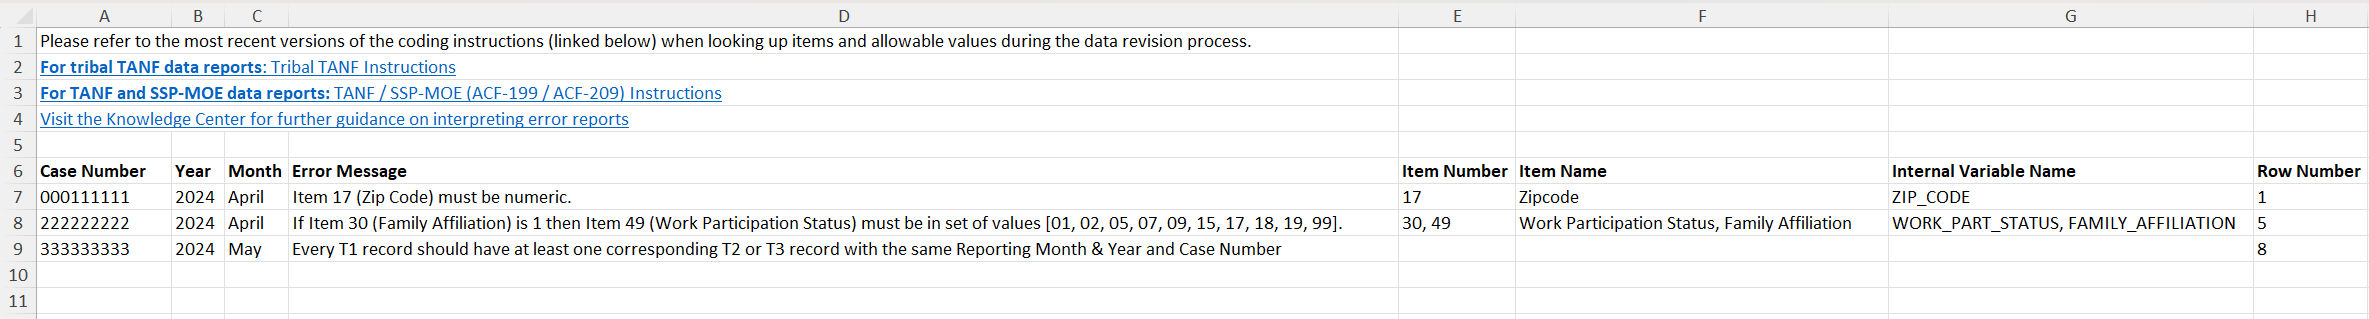
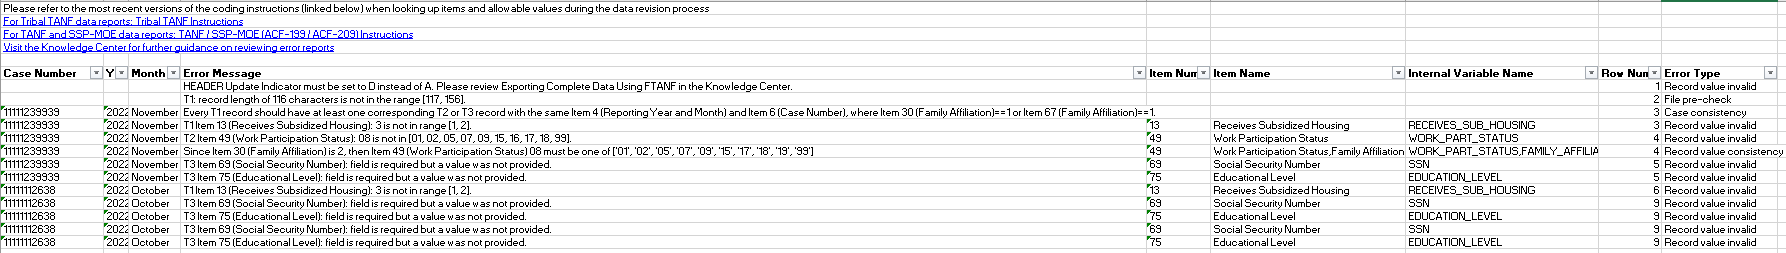
Release notes 3.6.4 and Updates to KC
Added 3.6.4 updates and Interpreting Error Types under Understanding Error Reports and File Structure sub page

Changed region(s): [[0.0, 0.0, 1.0, 0.996]]

diff --git a/product-updates/knowledge-center/viewing-error-reports.html b/product-updates/knowledge-center/viewing-error-reports.html
@@ -558,6 +558,7 @@ Family-level data for a specific month the family is receiving assistance.
   <li>Item Number and Item Name — which can be used alongside the error message to cross-reference with the coding instructions.</li>
   <li>Internal Variable Name — a value specific to TDP's database for use in support sessions with the TANF data team.</li>
   <li>Row Number — identifying which row of the submitted file contains the record associated with a given error.</li>
+  <li>Error Type — indicates the broad category of error and is related to both the cause of the error, and the effect of that error on file and record acceptance into the database.</li>
 </ul>
 <div style="min-height: 22px;"></div> 
 
@@ -565,12 +566,110 @@ Family-level data for a specific month the family is receiving assistance.
   <a href="../img/error-reports/error-report.png" data-lity data-lity-desc="TDP error report containing some of the error examples below opened in Excel">
       <img src="../img/error-reports/error-report.png" alt="TDP error report containing some of the error examples below opened in Excel">
       </a>
+
+      <div style="min-height: 22px;"></div> <div style="min-height: 22px;"></div> 
+      <h3 id="interpreting-error-types">Interpreting Error Types</h3>
+      <div style="min-height: 22px;"></div>
+      <p>There are four error types which affect data submission differently. Unlike low priority errors, high priority errors WILL prevent a file or record from being added to the database.</p>
+      <table class="usa-table">
+        <thead>
+          <tr>
+            <th scope="col">Error Type</th>
+            <th scope="col">Description</th>
+            <th scope="col">Priority</th>
+            <th scope="col">Impact</th>
+            <th scope="col">File Status</th>
+          </tr>
+        </thead>
+        <tbody>
+          <tr>
+            <th scope="row">File Pre-Check</th>
+            <td>
+            Relate to the format of a file. (e.g. incorrect headers or footers, records of incorrect length) and prevent the entire file from being added to the database. 
+            </td>
+            <td>
+            High
+            </td>
+            <td>
+             Entire file will be rejected
+            </td>
+            <td>
+              Rejected
+            </td>
+      
+          </tr>
+          <tr>
+            <th scope="row">Case Consistency</th>
+            <td>
+            Caused by inconsistency across records (e.g. inconsistency across related person and family level records) and prevent the affected records from being added to the database. These errors are triggered by a series of checks that confirm that all the records for a family are related in a meaningful way. Inconsistency across one or more cases in a file will trigger this status,  where at least some of the records in the file weren't added to the database. 
+            </td>
+            <td>
+              High
+              </td>
+              <td>
+               Record rejected
+              </td>
+              <td>
+                Partially accepted with errors
+              </td>
+      
+          </tr>
+          <tr>
+            <th scope="row">Record Value Invalid</th>
+            <td>
+              These errors involve unexpected values in the record (e.g. missing values or out-of-range values) and will not prevent a record from being added to the database. Users may want to correct for accuracy. 
+            </td>
+            <td>
+              Low
+              </td>
+              <td>
+               Record accepted
+              </td>
+              <td>
+                Accepted with errors
+              </td>
+      
+          </tr>
+          <tr>
+            <th scope="row">Record Value Inconsistency</th>
+            <td>
+              These errors stem from inconsistencies in the record (e.g. conflicting data between items in the same record) and will not prevent a record from being added to the database.  Users may want to correct for accuracy. 
+            </td>
+            <td>
+              Low
+              </td>
+              <td>
+               Record accepted
+              </td>
+              <td>
+                Accepted with errors
+              </td>
+      
+          </tr>
+            
+        </tbody>
+      </table>
+      <h4>To filter High Priority Errors:</h4>
+      <ol>
+        <li>Download the Error Report</li>
+        <li>Select Row 6</li>
+       <li> Navigate to Data > Format, Select Filter</li>
+        <li>Scroll to the right and find the Error Type column</li>
+       <li> Use the filter options to prioritize:</li>
+       <ul>
+        <li>File Pre-Check</li>
+        <li>Case Consistency</li>
+       </ul>
+      </ol>
+      <p> This will highlight errors that most significantly affect your file submission.</p> <br>
+<p><i>For users familiar with the legacy system, errors are equivalent to edits.  File Pre-Check and Case Consistency errors are similar to fatal edits and Record Value Invalid and Record Value Inconsistency are similar to warnings. </i></p>
 <div style="min-height: 22px;"></div> <div style="min-height: 22px;"></div> 
+
+
+
 <h3>Examples of Common Errors</h3>
 <div style="min-height: 22px;"></div>
 <p>Below are examples of error messages associated with common issues that may be listed in an error report.</p>
-
-
 
         <div class="usa-alert usa-alert--info usa-alert--no-icon">
   <div class="usa-alert__body">
@@ -581,7 +680,7 @@ Family-level data for a specific month the family is receiving assistance.
 
 <div style="min-height: 22px;"></div>
 <div style="min-height: 22px;"></div>
-  <h4>Errors related to header or trailer records:</h4>
+  <h4>File Pre-Check: Errors related to header or trailer records:</h4>
   <div style="min-height: 22px;"></div>
   <p>Header-related errors are often the result of submitting files for a fiscal period that is not consistent with the time period in the header record (e.g. trying to submit 2022 data for a 2024 submission). Other header or trailer errors may be related to how the file was generated (e.g. the file produced is missing a header or trailer record). Some examples of how these types of error may appear in your error report are included below:</p>
 
@@ -599,7 +698,7 @@ Family-level data for a specific month the family is receiving assistance.
 
 
   <div style="min-height: 22px;"></div><div style="min-height: 22px;"></div> <div style="min-height: 22px;"></div> 
-  <h4>Errors related to record length:</h4>
+  <h4>File Pre-Check: Errors related to record length:</h4>
   <div style="min-height: 22px;"></div>
   <p>Record length-related errors will be raised if the specified record is not aligned with the record layout requirements. For example, this kind of error may appear as follows in the report:</p>
    <div style="min-height: 22px;"></div>
@@ -615,7 +714,7 @@ Family-level data for a specific month the family is receiving assistance.
            <p>Please refer to the <a href="https://www.acf.hhs.gov/ofa/policy-guidance/final-tanf-ssp-moe-data-reporting-system-transmission-files-layouts-and-edits">Transmission File Layout documents</a> to compare your records against their expected layouts.</p>
 
   <div style="min-height: 22px;"></div><div style="min-height: 22px;"></div> <div style="min-height: 22px;"></div> 
-  <h4>Errors related to invalid values for a specific item/data element:</h4>
+  <h4>Record Value Invalid: Errors related to invalid values for a specific item/data element:</h4>
   <div style="min-height: 22px;"></div>
   <p>Invalid value errors can come up when a specific item/data element has an unexpected value (e.g. a letter or a symbol was reported for the zip code field, such as: "462$1"): </p>
 
@@ -632,7 +731,7 @@ Family-level data for a specific month the family is receiving assistance.
 
 
   <div style="min-height: 22px;"></div><div style="min-height: 22px;"></div> <div style="min-height: 22px;"></div> 
-  <h4 id="inconsistent-values">Errors related to inconsistent values for related items/data elements in the same record:</h4>
+  <h4 id="inconsistent-values">Record Value Inconsistency: Errors related to inconsistent values for related items/data elements in the same record:</h4>
    <div style="min-height: 22px;"></div>
   <p>Some errors may require review of the coding instructions for multiple items (and their respective values) to determine the proper correction. In the example below, the error is communicating that the value reported for Item 49 is in a conflict with the value for Item 30 in the same record. This message suggests a problem with either the value of Item 49 or the value of Item 30. Refer to the coding instructions and your own data to determine which value needs to be corrected.</p>
 
@@ -644,7 +743,7 @@ Family-level data for a specific month the family is receiving assistance.
 <div style="min-height: 22px;"></div>
 
     <div style="min-height: 22px;"></div><div style="min-height: 22px;"></div> <div style="min-height: 22px;"></div> 
-  <h4 id="related-records">Errors related to inconsistent values across related records:</h4>
+  <h4 id="related-records">Care Consistency: Errors related to inconsistent values across related records:</h4>
   <div style="min-height: 22px;"></div>
   <p>Errors with inconsistent values across related records may require review of the coding instructions to determine the proper correction. In the example below, the error is communicating that a T1 (family) record was found in the file that did not have a corresponding T2 (adult) or T3 (child) record, which effectively means that person-level records associated with this family are missing from the file. </p>
 

diff --git a/product-updates/knowledge-center/index.html b/product-updates/knowledge-center/index.html
@@ -337,6 +337,111 @@
 
         <h2>What's new in TDP</h2>
 
+
+        <h3 style="margin-top: 32px;">October 8th 2024 (v 3.6.4)</h3>
+
+        <h4 style="margin-top: 16px; color: #595959;">Added:</h4>
+        <ul class="usa-icon-list">
+          <li class="usa-icon-list__item" style="margin-top: 16px;">
+            <div class="usa-icon-list__icon text-ink">
+              <img src="../img/added.svg" aria-hidden="true" alt="" style="background-color: #d3ffcc; border-radius: 5px; width: 18px; height: 18px; position: relative; top: 2px; margin-right: 5px; margin-left: 5px;"/>
+            </div>
+            <div class="usa-icon-list__content">
+              <h5 class="usa-icon-list__title">
+                Fiscal Quarter Table Explainer to the TDP Data Files Page
+              </h5>
+              <p>A <b>calendar year</b> runs from January 1 to December 31, while the <b>fiscal year</b> for the U.S. government runs from October 1 to September 30.  If you are submitting data that aligns with the calendar period of the year, the new table will help you match those dates with the fiscal year quarters prior to your submissions.</p>
+            </div>
+          </li>
+
+          <li class="usa-icon-list__item" style="margin-top: 16px;">
+            <div class="usa-icon-list__icon text-ink">
+              <img src="../img/added.svg" aria-hidden="true" alt="" style="background-color: #d3ffcc; border-radius: 5px; width: 18px; height: 18px; position: relative; top: 2px; margin-right: 5px; margin-left: 5px;"/>
+            </div>
+            <div class="usa-icon-list__content">
+              <h5 class="usa-icon-list__title">
+                New Error Type Column Added to Error Report
+              </h5>
+              <p>To improve error identification and prioritization, a new column called "Error Type" has been added to error reports. This feature will help users quickly find and filter high-priority errors affecting file submission.</p>
+              <p>The new column categorizes four types of errors by their priority and impact on file status. Read more about <a href="viewing-error-reports.html#interpreting-error-types">interpreting and filtering error types.</a></p>
+
+
+<table class="usa-table">
+  <thead>
+    <tr>
+      <th scope="col">Error Type</th>
+      <th scope="col">Priority</th>
+      <th scope="col">Impact</th>
+      <th scope="col">File Status</th>
+    </tr>
+  </thead>
+  <tbody>
+    <tr>
+      <th scope="row">File Pre-Check</th>
+      <td>
+        High
+      </td>
+      <td>
+        Entire file will be rejected
+      </td>
+      <td>
+        Rejected
+      </td>
+
+    </tr>
+    <tr>
+      <th scope="row">Case Consistency</th>
+      <td>
+        High
+      </td>
+      <td>
+        Record rejected
+      </td>
+      <td>
+        Partially accepted with errors
+      </td>
+    </tr>
+    <tr>
+      <th scope="row">Record Value Invalid</th>
+      <td>
+        Low
+      </td>
+      <td>
+        Record accepted
+      </td>
+      <td>
+        Accepted with errors
+      </td>
+
+          <tr>
+      <th scope="row">Record Value Inconsistency</th>
+      <td>
+        Low
+      </td>
+      <td>
+        Record accepted
+      </td>
+      <td>
+        Accepted with errors
+      </td>
+
+    </tr>
+      
+  </tbody>
+</table>
+            </div>
+          </li>
+
+        </ul>   
+</ul>
+
+        <hr style="border: none;
+    height: 1px;
+    background: #000;
+    margin-top: 32px;
+    background: repeating-linear-gradient(90deg,#000,#000 6px,transparent 6px,transparent 12px);">
+
+
         <h3 style="margin-top: 32px;">September 10th 2024 (v 3.6.0)</h3>
         <h4 style="margin-top: 16px; color: #595959;">In Development:</h4>
         <ul class="usa-icon-list">
